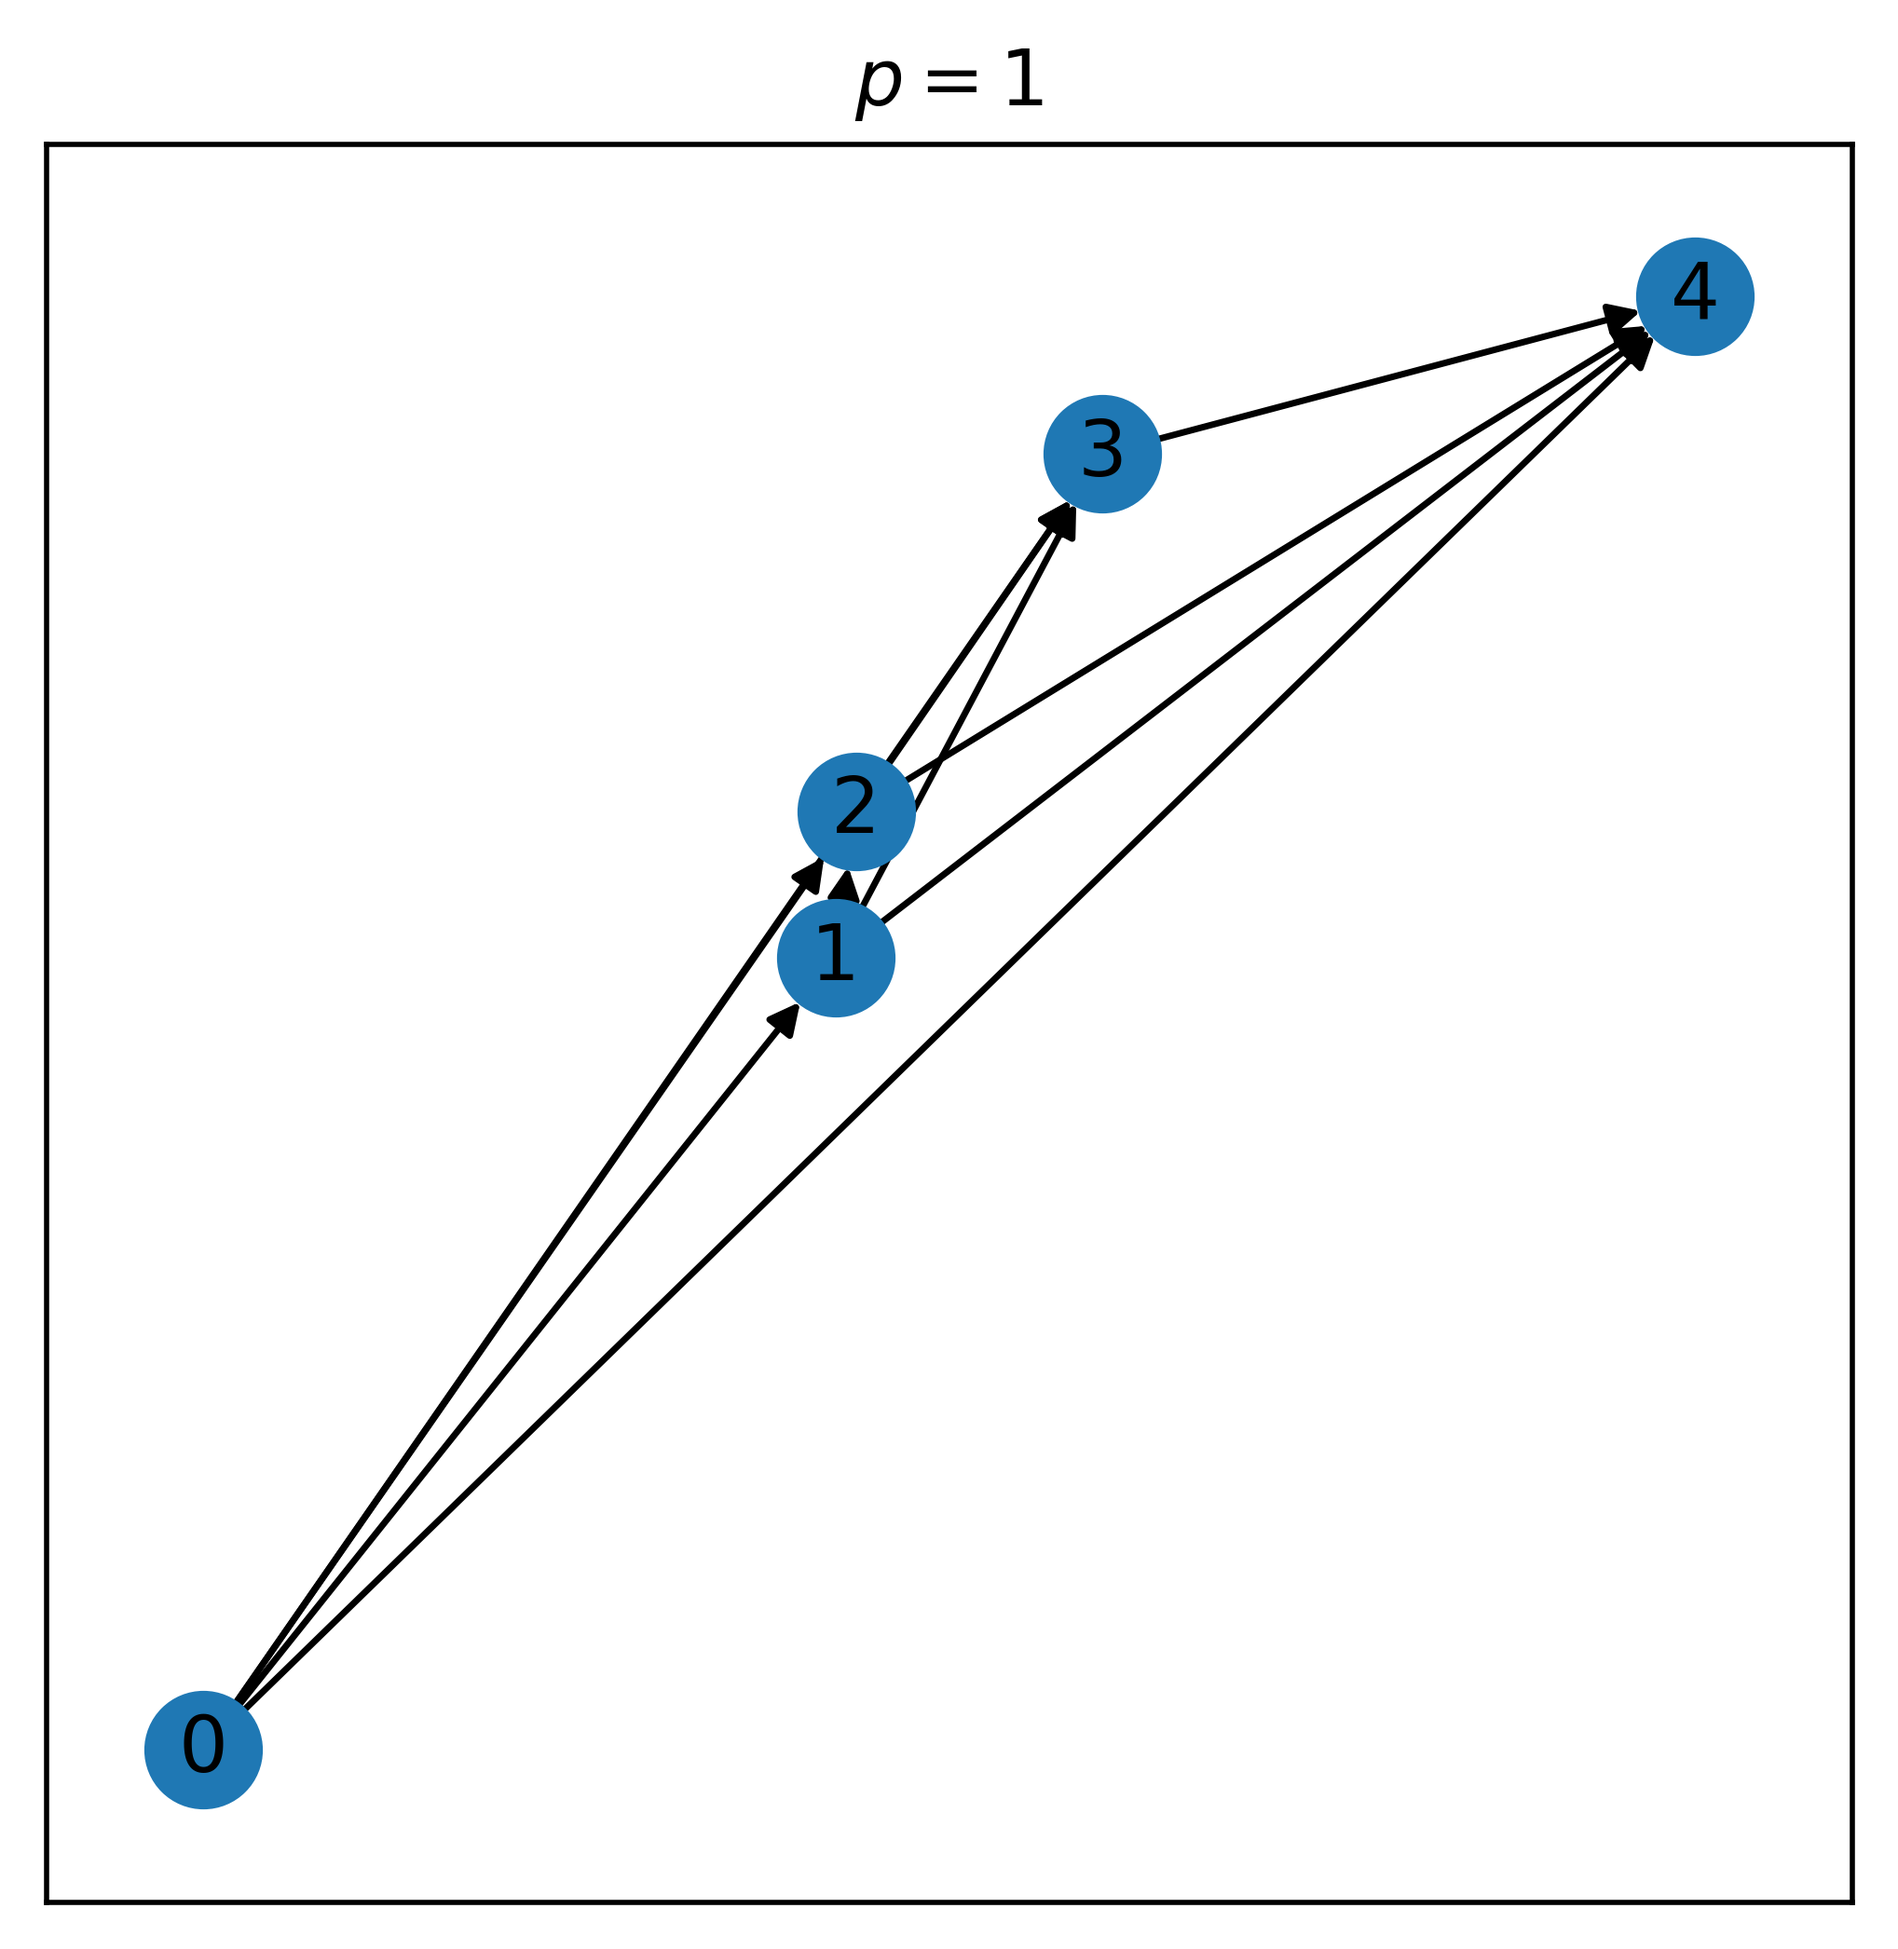
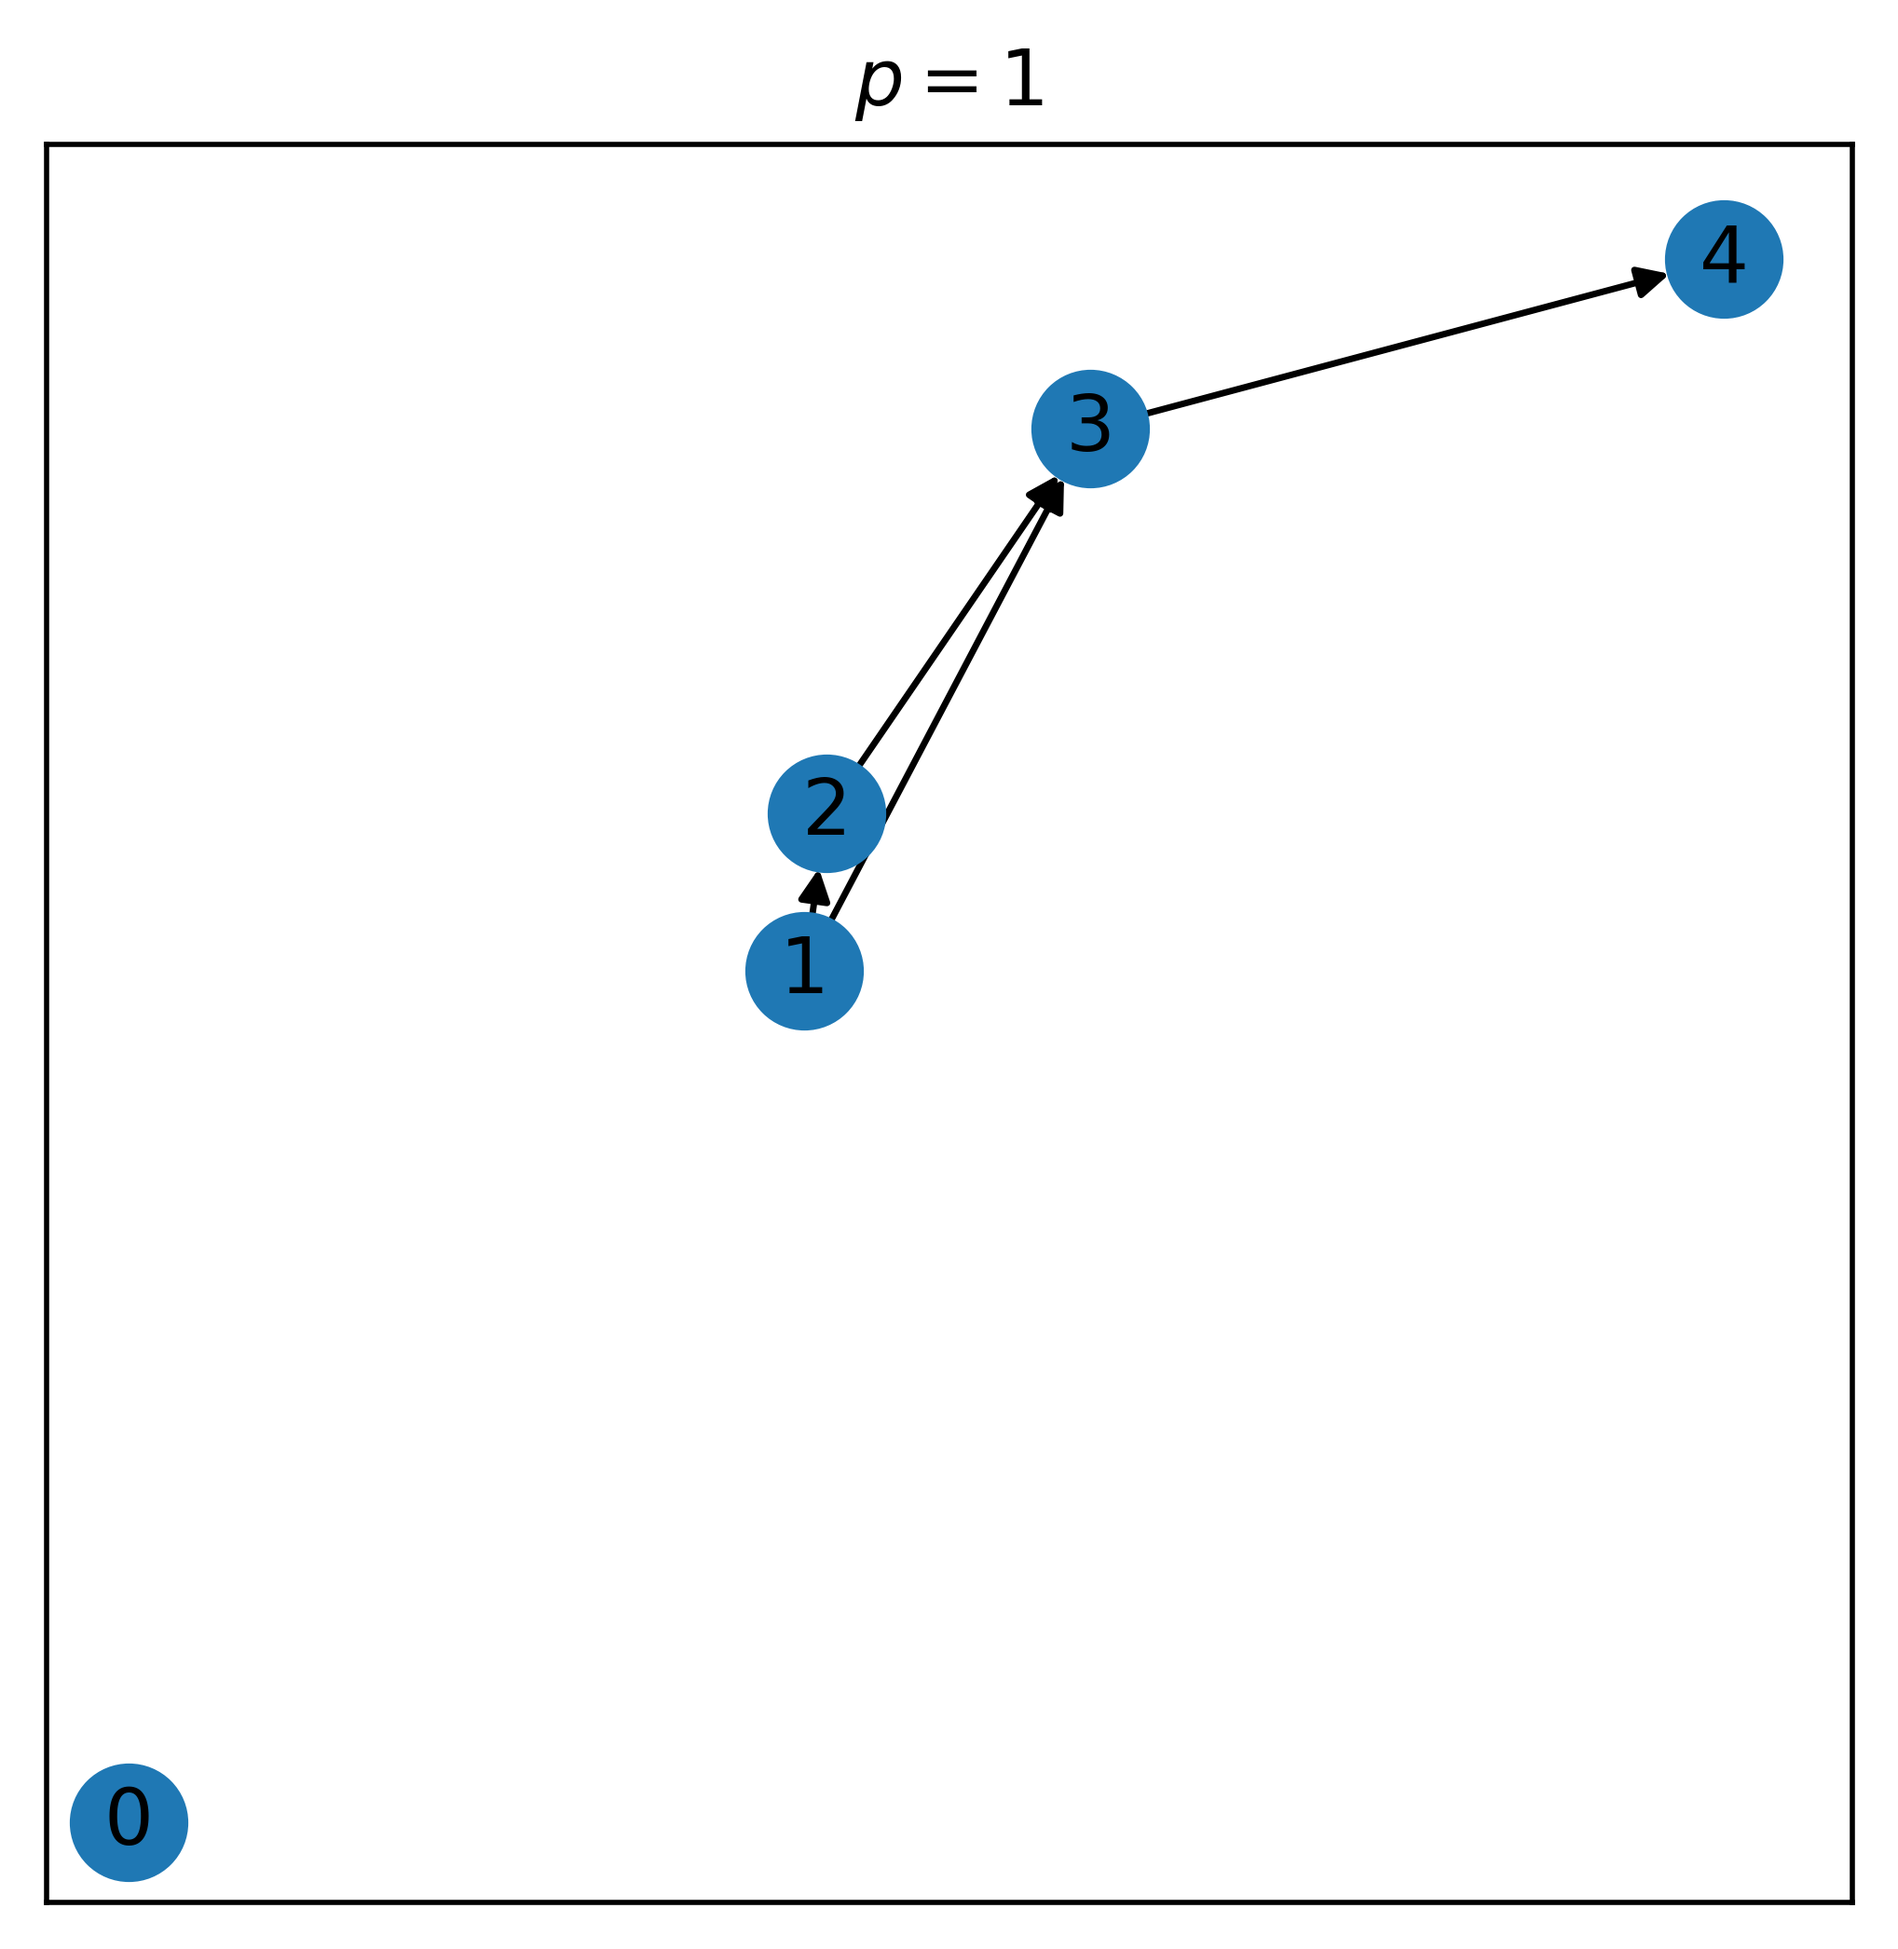
Hard coded in the positions of the first and last nodes into the pos dict
Ok I’ve fixed the “node 0 has no position” error (basically it wasn’t creating a value for the coords of node 0 in the pos dict if node 0 wasn’t connecter to anything), but ofc in these graphs there is no path from start to finish so we get a NoPath error

I've also noticed (for the random seed used in this commit in Graph) that we can get a "node 1 has no position" error if the radius is too small. This seems to suggest something wrong in the logic in the for loops in the add_edges method which populate pos (but only with nodes that are connected, and we can see in the plot that node 1 is very far away).
Perhaps this can be solved by assigning the positions outside of the add_edges method

diff --git a/Graph.py b/Graph.py
@@ -116,7 +116,10 @@ class Graph:
         
     
     def add_edges(self):
-        
+        # adding position of node 0 to account for error where it has no value in the pos dict
+        self._pos[0] = (0.0,0.0)
+        # hard code in the last node
+        self._pos[self._nodes - 1] = (1.0, 1.0)
         
         for i in range(len(self._x)): # i denotes the pair that pair j is being compared to
             for j in range(i+1, len(self._x)): # so now we don't need to do the x coord cube space check
@@ -171,7 +174,7 @@ class Graph:
         fig.set_size_inches(5, 5)
         ax.tick_params(left=True, bottom=True, labelleft=True, labelbottom=True)
         ax.set_title(r"$p = {}$".format(self._p))
-        #plt.axis('on')
+        #plt.axis('on') for some reason spyder crashes if using this
         nx.draw_networkx(self._graph, self._pos, arrows = True, ax = ax)
         plt.savefig("nx_graph_p={}.png".format(str(self._p)), dpi = 500, bbox_inches = "tight")
         plt.show()

diff --git a/run.py b/run.py
@@ -12,9 +12,9 @@ import networkx as nx
 import Graph as ga
 
 #%% Testing 
-g1 = ga.Graph(nodes = 5, radius = 10.0, p = 1, nx_plot = 1)
-ghalf = ga.Graph(nodes = 5, radius = 10.0, p = 1/2, nx_plot = 1)
-g2 = ga.Graph(nodes = 5, radius= 10.0, nx_plot = 1) #Euclidean graph
+g1 = ga.Graph(nodes = 5, radius = 0.8, p = 1, nx_plot = 1)
+ghalf = ga.Graph(nodes = 5, radius = 1.5, p = 1/2, nx_plot = 1)
+g2 = ga.Graph(nodes = 5, radius= 0.8, nx_plot = 1) #Euclidean graph
 
 graphs = [[ghalf, 0.5], [g1, 1.0], [g2, 2.0]]
 

diff --git a/GraphSun28.py b/GraphSun28.py
@@ -189,7 +189,7 @@ class Graph:
         plt.show()   
 
 
-    def triangle(self, n1, n2, n3):
+    def triangle(self, n1 = 0, n2 = 1, n3 = 2):
         """
         Verify the triangle identity
 
